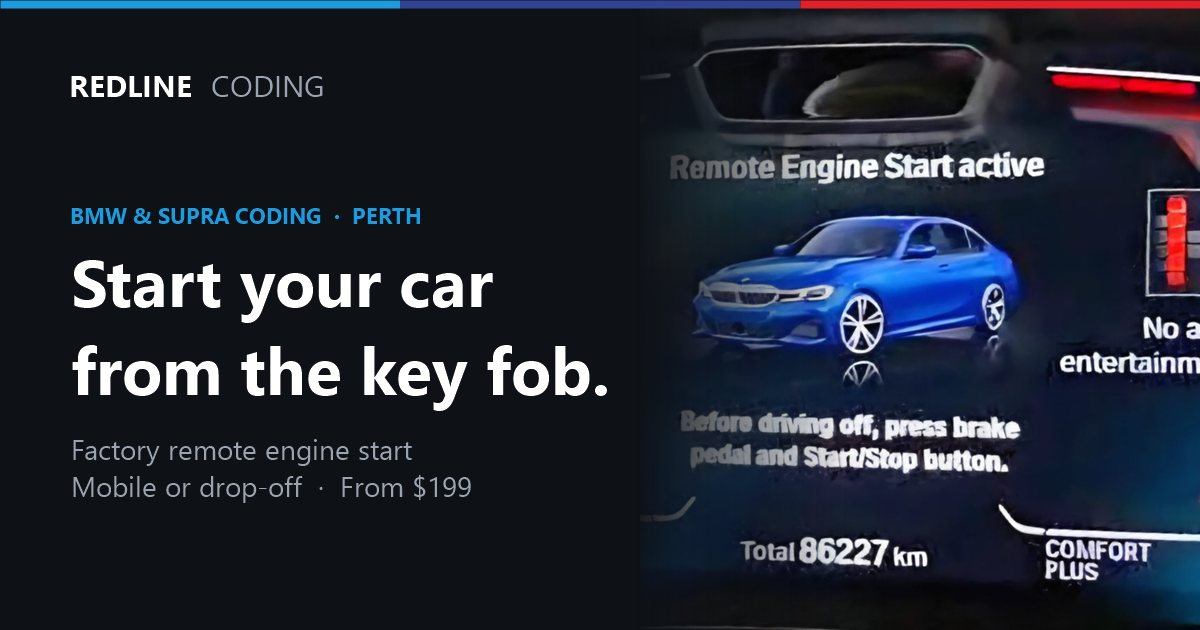
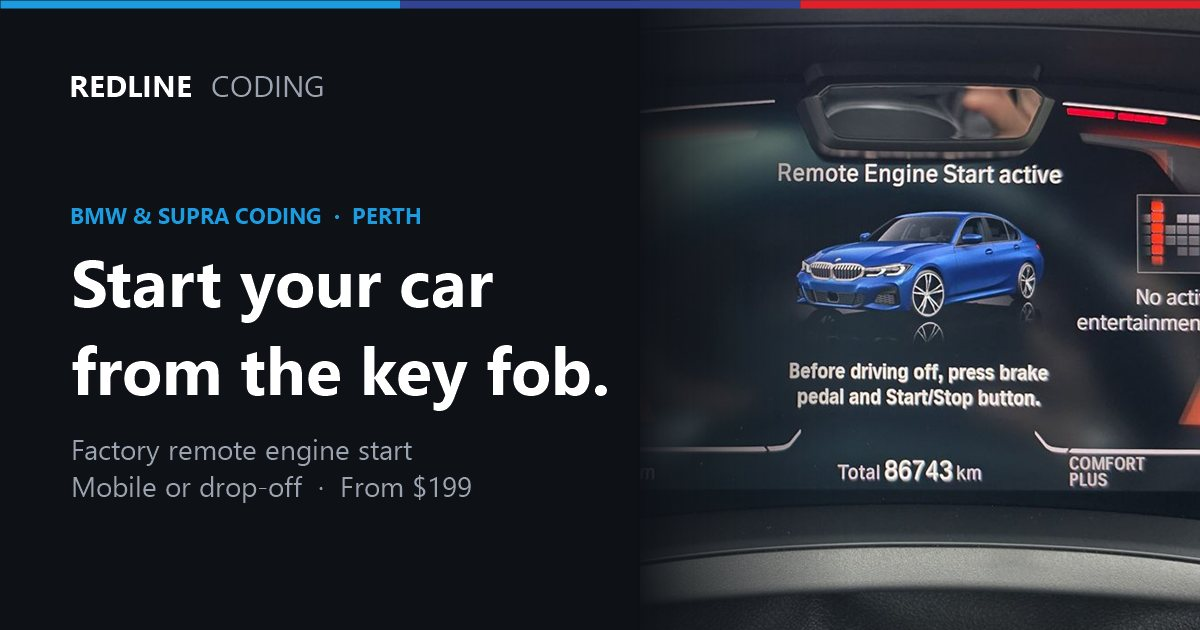
Add YouTube demo video and new cluster photos; refresh link preview image

Changed region(s): [[0.555, 0.0, 1.0, 1.0], [0.555, 0.7841, 0.5858, 0.8444], [0.555, 0.0905, 0.5858, 0.1206]]

diff --git a/styles.css b/styles.css
@@ -266,32 +266,18 @@ form .btn { margin-top: 24px; }
   .facts dt { font-size: 19px; }
 }
 
-/* demo media */
-.demo { margin: 28px 0 0; }
-.demo img {
-  display: block; width: 100%; height: auto;
-  border-radius: var(--radius); border: 1px solid var(--border);
-  background: var(--ink);
+/* demo media: 16:9 video and 3:4 photo at equal height (16/9 : 3/4 = 2.37 : 1) */
+.demo { margin-top: 28px; display: grid; grid-template-columns: 2.37fr 1fr; gap: 16px; align-items: start; }
+.demo-video { aspect-ratio: 16 / 9; border-radius: var(--radius); overflow: hidden; background: var(--ink); border: 1px solid var(--border); }
+.demo-video iframe { width: 100%; height: 100%; border: 0; display: block; }
+.demo-photo { margin: 0; }
+.demo-photo img {
+  display: block; width: 100%; height: auto; aspect-ratio: 3 / 4; object-fit: cover;
+  border-radius: var(--radius); border: 1px solid var(--border); background: var(--ink);
 }
-.demo figcaption { margin-top: 12px; font-size: 14px; color: var(--muted); }
-.demo figcaption b { color: var(--text); font-weight: 600; }
-@media (max-width: 560px) {
-  .demo img { max-height: 80vh; width: auto; max-width: 100%; margin: 0 auto; }
-}
-
-/* enquiry confirmation */
-.thanks {
-  border: 1px solid var(--yes-bd); background: var(--yes-bg); color: var(--yes-fg);
-  border-radius: 12px; padding: 24px; outline: none;
-}
-.thanks h3 { margin: 12px 0 6px; font-size: 20px; }
-.thanks p { margin: 0 0 12px; }
-.thanks ol { margin: 0; padding-left: 20px; }
-.thanks li { margin-bottom: 4px; }
-.thanks-tick {
-  width: 40px; height: 40px; border-radius: 50%; background: var(--yes-fg); position: relative;
-}
-.thanks-tick::after {
-  content: ""; position: absolute; left: 13px; top: 11px; width: 14px; height: 8px;
-  border-left: 3px solid var(--yes-bg); border-bottom: 3px solid var(--yes-bg); transform: rotate(-45deg);
+.demo-caption { margin: 12px 0 0; font-size: 14px; color: var(--muted); }
+.demo-caption b { color: var(--text); font-weight: 600; }
+@media (max-width: 700px) {
+  .demo { grid-template-columns: 1fr; }
+  .demo-photo img { max-height: 75vh; width: auto; max-width: 100%; margin: 0 auto; }
 }

diff --git a/index.html b/index.html
@@ -95,15 +95,19 @@
 
   <section class="wrap section" id="demo">
     <h2 class="h2">See it in action</h2>
-    <p class="muted">Press lock three times, and the instrument cluster confirms the engine was started remotely.</p>
-    <figure class="demo">
-      <picture>
-        <source media="(max-width: 560px)" srcset="media/demo-cluster-tall.jpg" width="900" height="1590">
-        <img src="media/demo-cluster-wide.jpg" width="1600" height="900" loading="lazy"
-             alt="BMW G20 3 Series instrument cluster showing the message 'Remote Engine Start active'">
-      </picture>
-      <figcaption>G20 3 Series after coding: <b>"Remote Engine Start active"</b>. To drive off, get in, press the brake and then the Start/Stop button.</figcaption>
-    </figure>
+    <p class="muted">Press lock three times and the engine starts. The instrument cluster confirms it was started remotely.</p>
+    <div class="demo">
+      <div class="demo-video">
+        <iframe src="https://www.youtube-nocookie.com/embed/J9qW5y-85rg?rel=0" title="BMW Factory Remote Start Activated" loading="lazy"
+                allow="accelerometer; autoplay; clipboard-write; encrypted-media; gyroscope; picture-in-picture; web-share"
+                referrerpolicy="strict-origin-when-cross-origin" allowfullscreen></iframe>
+      </div>
+      <figure class="demo-photo">
+        <img src="media/demo-cluster-tall.jpg" width="900" height="1200" loading="lazy"
+             alt="BMW G20 3 Series instrument cluster showing the message Remote Engine Start active">
+      </figure>
+    </div>
+    <p class="demo-caption">G20 3 Series after coding: <b>"Remote Engine Start active"</b>. To drive off, get in, press the brake and then the Start/Stop button.</p>
   </section>
 
   <section class="wrap section" id="how">
